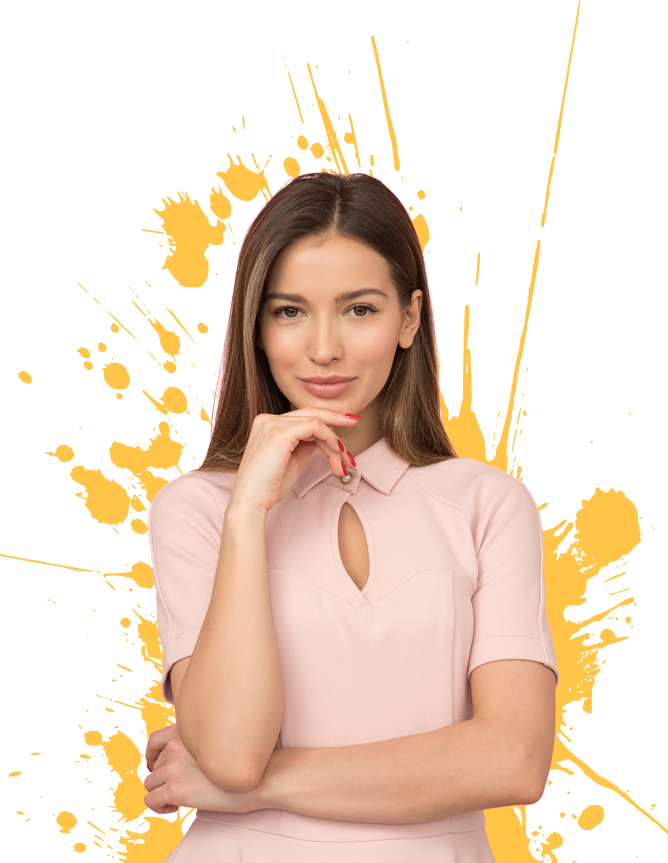
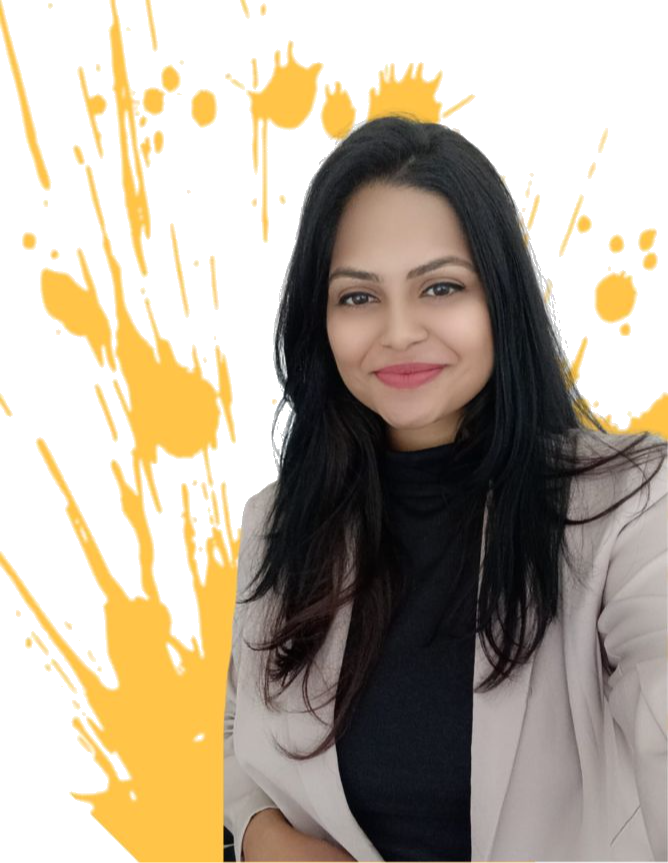
second commit. final website done

diff --git a/index.html b/index.html
@@ -30,6 +30,45 @@
 
     <!-- Template Stylesheet -->
     <link href="css/style.css" rel="stylesheet">
+    
+    <meta name="viewport" content="width=device-width, initial-scale=1.0">
+    <!-- <title>Crop Image</title>
+    <style>
+        .crop-container {
+            width: 300px; /* Set the desired width */
+            height: 300px; /* Set the desired height to maintain 1:1 aspect ratio */
+            overflow: hidden;
+            position: relative;
+        }
+
+        .crop-container img {
+            width: 100%;
+            height: auto;
+            position: absolute;
+            top: 50%;
+            left: 50%;
+            transform: translate(-50%, -50%);
+        }
+    </style> -->
+    <meta charset="UTF-8">
+    <meta name="viewport" content="width=device-width, initial-scale=1.0">
+    <title>Logo Container</title>
+    <style>
+        .logo-container {
+            display: flex;
+            justify-content: space-around;
+            align-items: center;
+            padding: 1px;
+            /* background-color: #f0f0f0; */
+        }
+        .logo-container img {
+            max-width: 80px; /* Reduced size */
+            height: auto;
+            border-radius: 50%;
+            /* border: 2px solid #000; Optional: Add a border color */
+            margin: 0 10px; /* Added space between logos */
+        }
+    </style>
 </head>
 
 <body data-bs-spy="scroll" data-bs-target=".navbar" data-bs-offset="51">
@@ -84,43 +123,25 @@
                     <div class="d-flex align-items-center pt-5">
                         <a href="https://drive.google.com/file/d/1jBXwR4NysAqtxZ7k9jo_tWxGBZfB0aZU/view?usp=sharing" class="btn btn-primary py-3 px-4 me-5">Download CV</a>
                         <a href="https://www.linkedin.com/in/nishmita/" class="btn btn-primary py-3 px-4 me-5">LinkedIN</a>
-                        <!-- <button type="button" class="btn-play" data-bs-toggle="modal"
-                            data-src="https://www.linkedin.com/in/nishmita/" data-bs-target="#videoModal">
-                            <span></span>
-                        </button>
-                        <h5 class="ms-4 mb-0 d-none d-sm-block">LinkedIN</h5> -->
+                    </div>
+                    <p></p>
+                    <h3 class="text-primary mb-3">Worked with and more...</h3>
+                    <div class="logo-container">
+                        <img src="img/microsoft-logo.png" alt="Logo 1">
+                        <img src="img/lego-brand-logo.jpg" alt="Logo 2">
+                        <img src="img/google.jpg" alt="Logo 3">
+                        <img src="img/SE logo.jpg" alt="Logo 4">
+                        <img src="img/copilot-logo.png" alt="Logo 5">
                     </div>
                 </div>
                 <div class="col-lg-6">
-                    <img class="img-fluid" src="img/Untitled__668_x_863_px_-removebg-preview.png" alt="">
+                    <img class="img-fluid" src="img/profile.png" alt="">
                 </div>
                 
             </div>
         </div>
     </div>
     <!-- Header End -->
-
-
-    <!-- Video Modal Start -->
-    <!-- <div class="modal modal-video fade" id="videoModal" tabindex="-1" aria-labelledby="exampleModalLabel" aria-hidden="true">
-        <div class="modal-dialog">
-            <div class="modal-content rounded-0">
-                <div class="modal-header">
-                    <h3 class="modal-title" id="exampleModalLabel">Youtube Video</h3>
-                    <button type="button" class="btn-close" data-bs-dismiss="modal" aria-label="Close"></button>
-                </div>
-                <div class="modal-body">
-                    <!-- 16:9 aspect ratio -->
-                    <!-- <div class="ratio ratio-16x9">
-                        <iframe class="embed-responsive-item" src="" id="video" allowfullscreen allowscriptaccess="always"
-                            allow="autoplay"></iframe>
-                    <!-- </div> -->
-                </div>
-            </div>
-        </div>
-    </div> --> -->
-    <!-- Video Modal End -->
-
 
     <!-- About Start -->
     <div class="container-xxl py-6" id="about">
@@ -134,24 +155,32 @@
                         </div>
                         <h3 class="lh-base mb-0">of working experience as a Product Manager, Product Marketing Manager, Program and Project Manager</h3>
                     </div>
-                    <p class="mb-4">Customer obsessed creative problem solver who excels navigating through complexity and ambihuity.</p>
+                    <p class="mb-4">Customer obsessed creative problem solver who love pulling apart complex problems from ambiguity into simple solutions.</p>
                     <p class="mb-3"><i class="far fa-check-circle text-primary me-3"></i>Cross-functional Collaboration</p>
                     <p class="mb-3"><i class="far fa-check-circle text-primary me-3"></i>Strategic Communicator </p>
                     <p class="mb-3"><i class="far fa-check-circle text-primary me-3"></i>Adaptive Competitive Market Insights</p>
-                    <a class="btn btn-primary py-3 px-5 mt-3" href="https://www.linkedin.com/in/nishmita/">Read More</a>
+                    <div class="d-flex align-items-center mb-3">
+                        <h5 class="border-end pe-3 me-3 mb-0">Projects Completed</h5>
+                        <h2 class="text-primary fw-bold mb-0" data-toggle="counter-up">35</h2>
+                            <h2 span class="text-primary fw-bold mb-0">+</h2>
+                    </div>
+                    <a class="btn btn-primary py-3 px-5 mt-3" href="https://www.linkedin.com/in/nishmita/">See more</a>                 
                 </div>
                 <div class="col-lg-6 wow fadeInUp" data-wow-delay="0.5s">
                     <div class="row g-3 mb-4">
                         <div class="col-sm-6">
-                            <img class="img-fluid rounded" src="img/about-1.jpg" alt="">
+                            <img class="img-fluid rounded" src="img/IMG_2627.jpg" alt="">
                         </div>
-                        <div class="col-sm-6">
-                            <img class="img-fluid rounded" src="img/about-2.jpg" alt="">
+                        <div class="col-sm-6 crop-container">
+                            <img class="img-fluid rounded" src="img/IMG_6547.jpg" alt="">
                         </div>
+                        <!-- <div class="col-sm-6">
+                            <img class="img-fluid rounded" src="img/IMG_6546 (1).png" alt="">
+                        </div> -->
                     </div>
                     <div class="d-flex align-items-center mb-3">
                         <div class="years flex-shrink-0 text-center me-4">
-                            <h5 class="mb-0">Experience</h5>
+                            <h5 class="text-primary mb-3">Experience</h5>
                         </div>
                     </div>
                     <div class="d-flex align-items-center mb-3"> 
@@ -177,7 +206,7 @@
         <div class="container">
             <div class="row g-5">
                 <div class="col-lg-6 wow fadeInUp" data-wow-delay="0.1s">
-                    <h1 class="display-5 mb-5">Skills & Certificates</h1>
+                    <h1 class="display-5 text-primary mb-3">Skills & Certificates</h1>
                     <!-- <p class="mb-4"></p> -->
                     <h3 class="mb-4">Key Competences</h3>
                     <div class="row align-items-center">
@@ -290,7 +319,6 @@
                                     <p class="text-primary mb-1">2000 - 2045</p> -->
                                     <h6 class="mb-0">SaaS, PaaS, IoT, Asana, Monday.com, Slack, Microsoft Teams, Zoom, Confluence, Notion, HTML, CSS, Bootstrap, JavaScript</h6>
                                 </div>
-                               
                                 <!-- <div class="col-sm-6">
                                     <h5>Product Designer</h5>
                                     <hr class="text-primary my-2">
@@ -364,7 +392,7 @@
         <div class="container">
             <div class="row g-5 mb-5 wow fadeInUp" data-wow-delay="0.1s">
                 <div class="col-lg-6">
-                    <h1 class="display-5 mb-0">My Experience</h1>
+                    <h1 class="display-5 text-primary mb-3">My Experience</h1>
                 </div>
                 <div class="col-lg-6 text-lg-end">
                     <a class="btn btn-primary py-3 px-5" href="mailto:nbandek1@asu.edu">Hire Me</a>
@@ -431,7 +459,7 @@
         <div class="container">
             <div class="row g-5 mb-5 align-items-center wow fadeInUp" data-wow-delay="0.1s">
                 <div class="col-lg-6">
-                    <h1 class="display-5 mb-0">My Projects</h1>
+                    <h1 class="display-5 text-primary mb-3">My Projects</h1>
                 </div>
                 <div class="col-lg-6 text-lg-end">
                     <!-- <ul class="list-inline mx-n3 mb-0" id="portfolio-flters">
@@ -456,6 +484,20 @@
                         </div>
                     </div>
                 </div>
+                <div class="col-lg-4 col-md-6 portfolio-item second">
+                    <div class="portfolio-img rounded overflow-hidden">
+                        <img class="img-fluid" src="img/copilot-logo.png" alt="">
+                        <div class="portfolio-btn">
+                            <div class="d-flex align-items-center pt-5">
+                                <h3 class="btn-secondary">Copilot for sales
+                                    <div>
+                                        <h5>Collaborated with Microsoft Copilot team for a session aimed at integrating Copilot with BFO and Salesforce for a more efficient process across NAM. The session saw a 70% increase in attendance and engagement rates, and efficiency improved by 30% compared to the predictive model after one month</h5>
+                                    </div>
+                                </h3>
+                            </div>
+                        </div>
+                    </div>
+                </div>
                 <div class="col-lg-4 col-md-6 portfolio-item first">
                     <div class="portfolio-img rounded overflow-hidden">
                         <img class="img-fluid" src="img/google.jpg" alt="">
@@ -470,6 +512,34 @@
                         </div>
                     </div>
                 </div>    
+                <div class="col-lg-4 col-md-6 portfolio-item second">
+                    <div class="portfolio-img rounded overflow-hidden">
+                        <img class="img-fluid" src="img/microsoft-logo.png" alt="">
+                        <div class="portfolio-btn">
+                            <div class="d-flex align-items-center pt-5">
+                                <h3 class="btn-secondary">Microsoft Teams-Outlook
+                                    <div>
+                                        <h5>Collaborated with Microsoft Teams to enhance workplace efficiency for 450+. This initiative improved collaboration and interactions within the company, incorporating features such as polls, Q&A, chat, transcripts, and meeting summaries.</h5>
+                                    </div>
+                                </h3>
+                            </div>
+                        </div>
+                    </div>
+                </div>
+                <div class="col-lg-4 col-md-6 portfolio-item second">
+                    <div class="portfolio-img rounded overflow-hidden">
+                        <img class="img-fluid" src="img/SE logo.jpg" alt="">
+                        <div class="portfolio-btn">
+                            <div class="d-flex align-items-center pt-5">
+                                <h3 class="btn-secondary">SLED Market Manager
+                                    <div>
+                                        <h5>Enhanced the SLED Market Manager product, boosting reporting efficiency by 70% and delivering insights that informed product strategy, refining GTM & stakeholder management. Developed a Learning Journey dashboard for progess tracking</h5>
+                                    </div>
+                                </h3>
+                            </div>
+                        </div>
+                    </div>
+                </div>
                 <div class="col-lg-4 col-md-6 portfolio-item second">
                     <div class="portfolio-img rounded overflow-hidden">
                         <img class="img-fluid" src="img/CTIC.png" alt="">
@@ -536,17 +606,17 @@
         <div class="container">
             <div class="row g-5 mb-5 wow fadeInUp" data-wow-delay="0.1s">
                 <div class="col-lg-6">
-                    <h1 class="display-5 mb-0">Featured</h1>
+                    <h1 class="display-5 text-primary mb-3">Featured</h1>
                 </div>
             </div>
             <div class="row g-4">
                 <div class="col-lg-3 col-md-6 wow fadeInUp" data-wow-delay="0.1s">
                     <div class="team-item position-relative">
-                        <img class="img-fluid rounded" src="img/team-1.jpg" alt="">
+                        <img class="img-fluid rounded" src="img/image-550x600 (1).jpg" alt="">
                         <div class="team-text bg-white rounded-end p-4">
                             <div>
-                                <h5>Full Name</h5>
-                                <span>Designer</span>
+                                <h5>Top 8 Best Intern 2024</h5>
+                                <span>Schneider Electric</span>
                             </div>
                             <i class="fa fa-arrow-right fa-2x text-primary"></i>
                         </div>
@@ -554,11 +624,11 @@
                 </div>
                 <div class="col-lg-3 col-md-6 wow fadeInUp" data-wow-delay="0.3s">
                     <div class="team-item position-relative">
-                        <img class="img-fluid rounded" src="img/team-2.jpg" alt="">
+                        <img class="img-fluid rounded" src="img/IMG_7655 (1).jpg" alt="">
                         <div class="team-text bg-white rounded-end p-4">
                             <div>
-                                <h5>Full Name</h5>
-                                <span>Designer</span>
+                                <h5>Summer Campus Ambassador</h5>
+                                <span>TSGM, ASU</span>
                             </div>
                             <i class="fa fa-arrow-right fa-2x text-primary"></i>
                         </div>
@@ -566,11 +636,11 @@
                 </div>
                 <div class="col-lg-3 col-md-6 wow fadeInUp" data-wow-delay="0.3s">
                     <div class="team-item position-relative">
-                        <img class="img-fluid rounded" src="img/team-2.jpg" alt="">
+                        <img class="img-fluid rounded" src="img/springle.jpg" alt="">
                         <div class="team-text bg-white rounded-end p-4">
                             <div>
-                                <h5>Full Name</h5>
-                                <span>Designer</span>
+                                <h5>Spring 2024 Cohort Leader</h5>
+                                <span>TSGM, ASU</span>
                             </div>
                             <i class="fa fa-arrow-right fa-2x text-primary"></i>
                         </div>
@@ -578,11 +648,11 @@
                 </div>
                 <div class="col-lg-3 col-md-6 wow fadeInUp" data-wow-delay="0.5s">
                     <div class="team-item position-relative">
-                        <img class="img-fluid rounded" src="img/team-3.jpg" alt="">
+                        <img class="img-fluid rounded" src="img/marketing maveb.jpg" alt="">
                         <div class="team-text bg-white rounded-end p-4">
                             <div>
-                                <h5>Full Name</h5>
-                                <span>Designer</span>
+                                <h5>Marketing Maven 2023-24</h5>
+                                <span>ASU</span>
                             </div>
                             <i class="fa fa-arrow-right fa-2x text-primary"></i>
                         </div>
@@ -664,7 +734,7 @@
         <div class="container py-5">
             <div class="row g-5 mb-5 wow fadeInUp" data-wow-delay="0.1s">
                 <div class="col-lg-6">
-                    <h1 class="display-5 mb-0">Let's Work Together</h1>
+                    <h1 class="display-5 text-primary mb-3">Let's Work Together</h1>
                 </div>
                 <div class="col-lg-6 text-lg-end">
                     <a class="btn btn-primary py-3 px-5" href="mailto:nbandek1@asu.edu">Hire Me</a>
